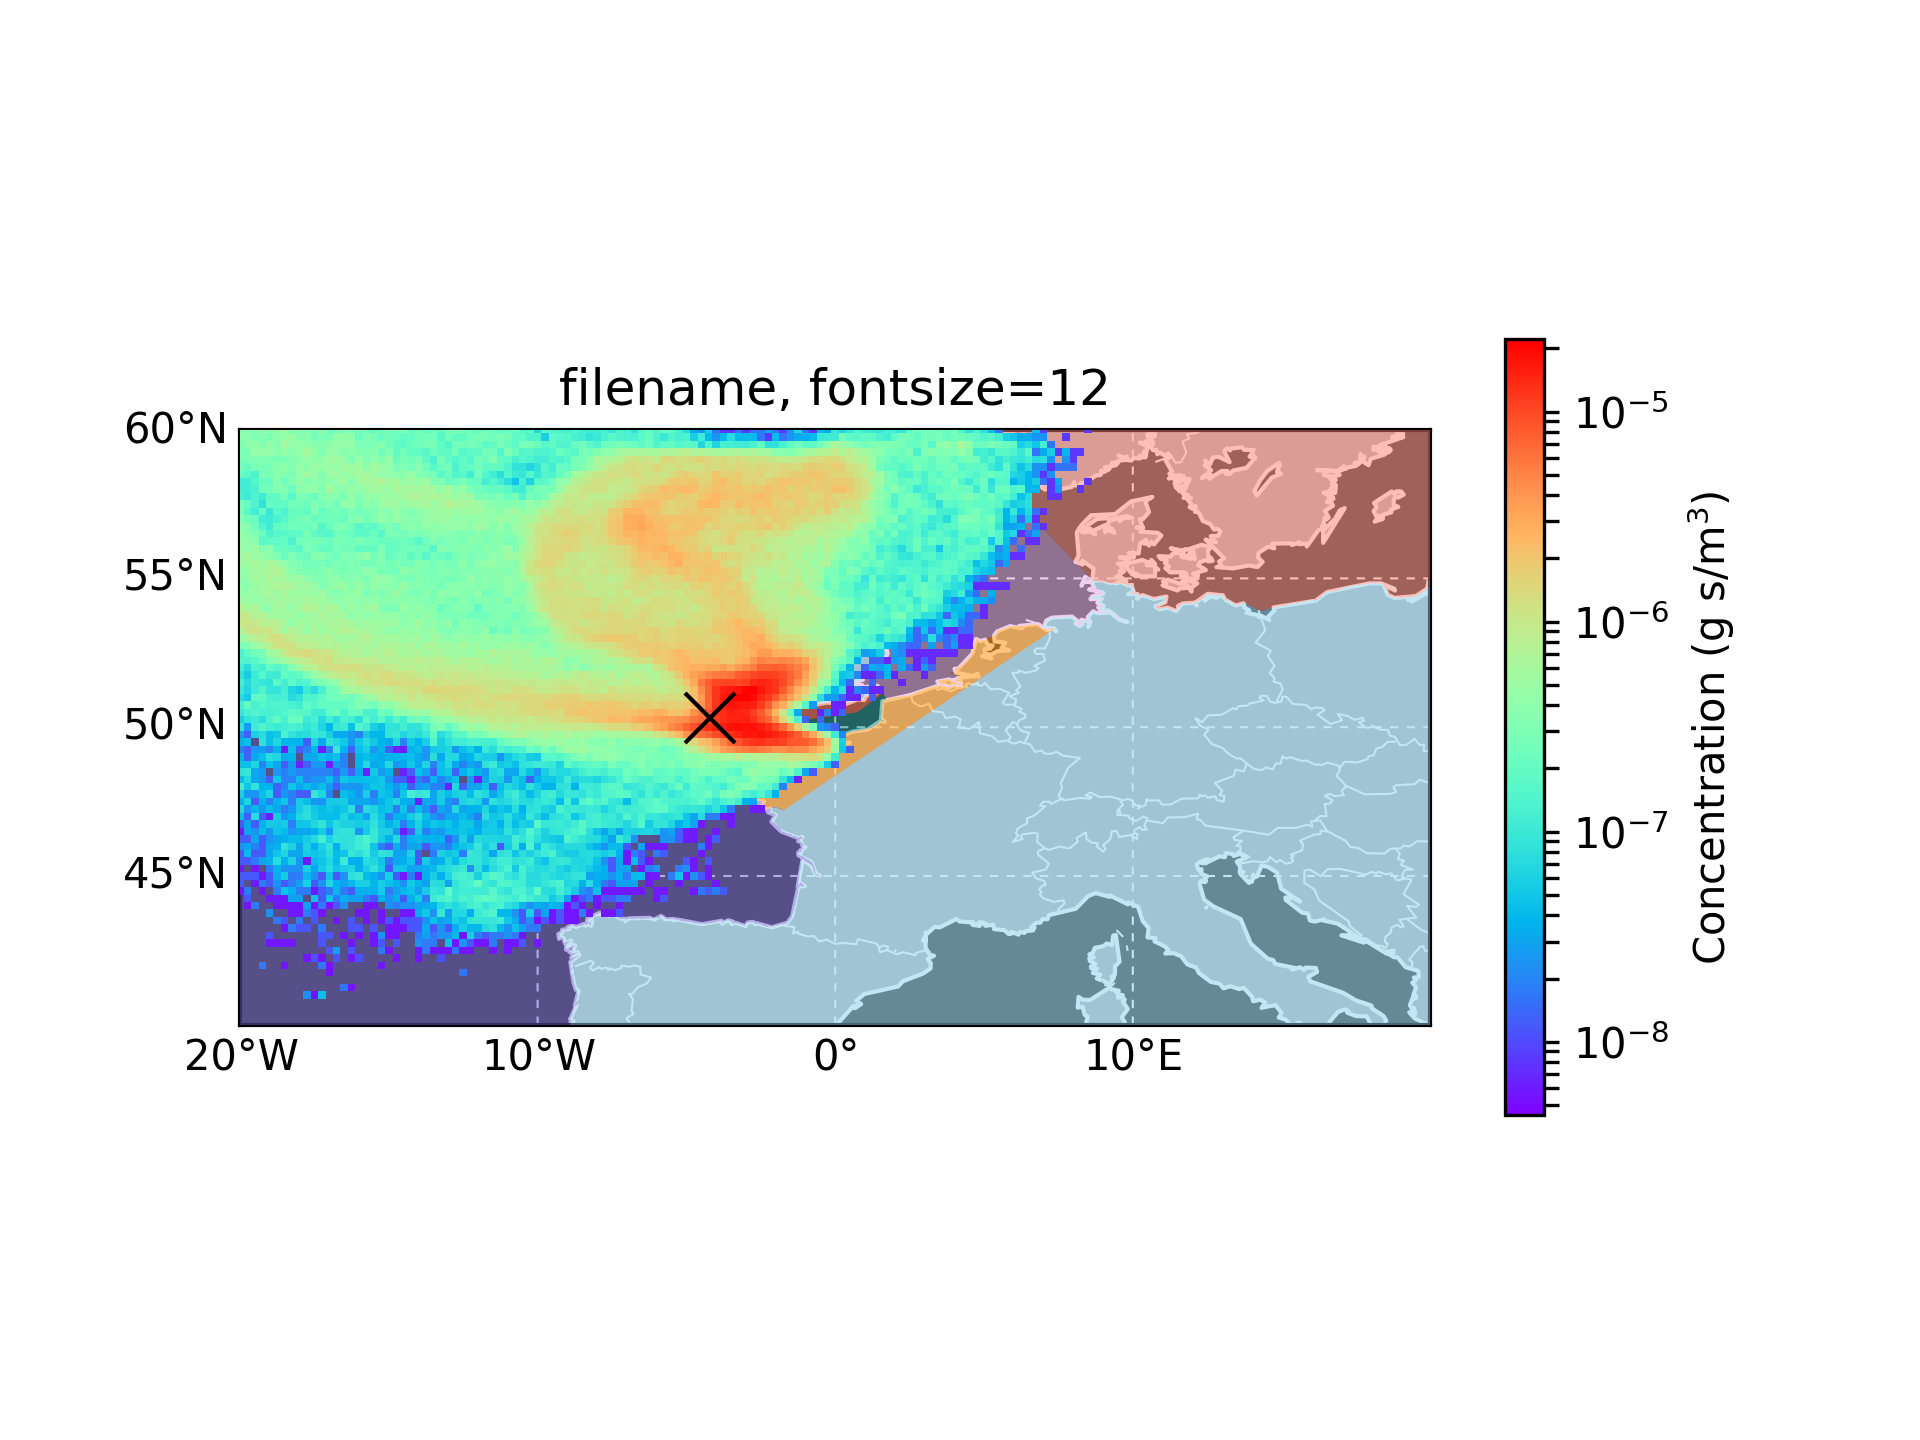
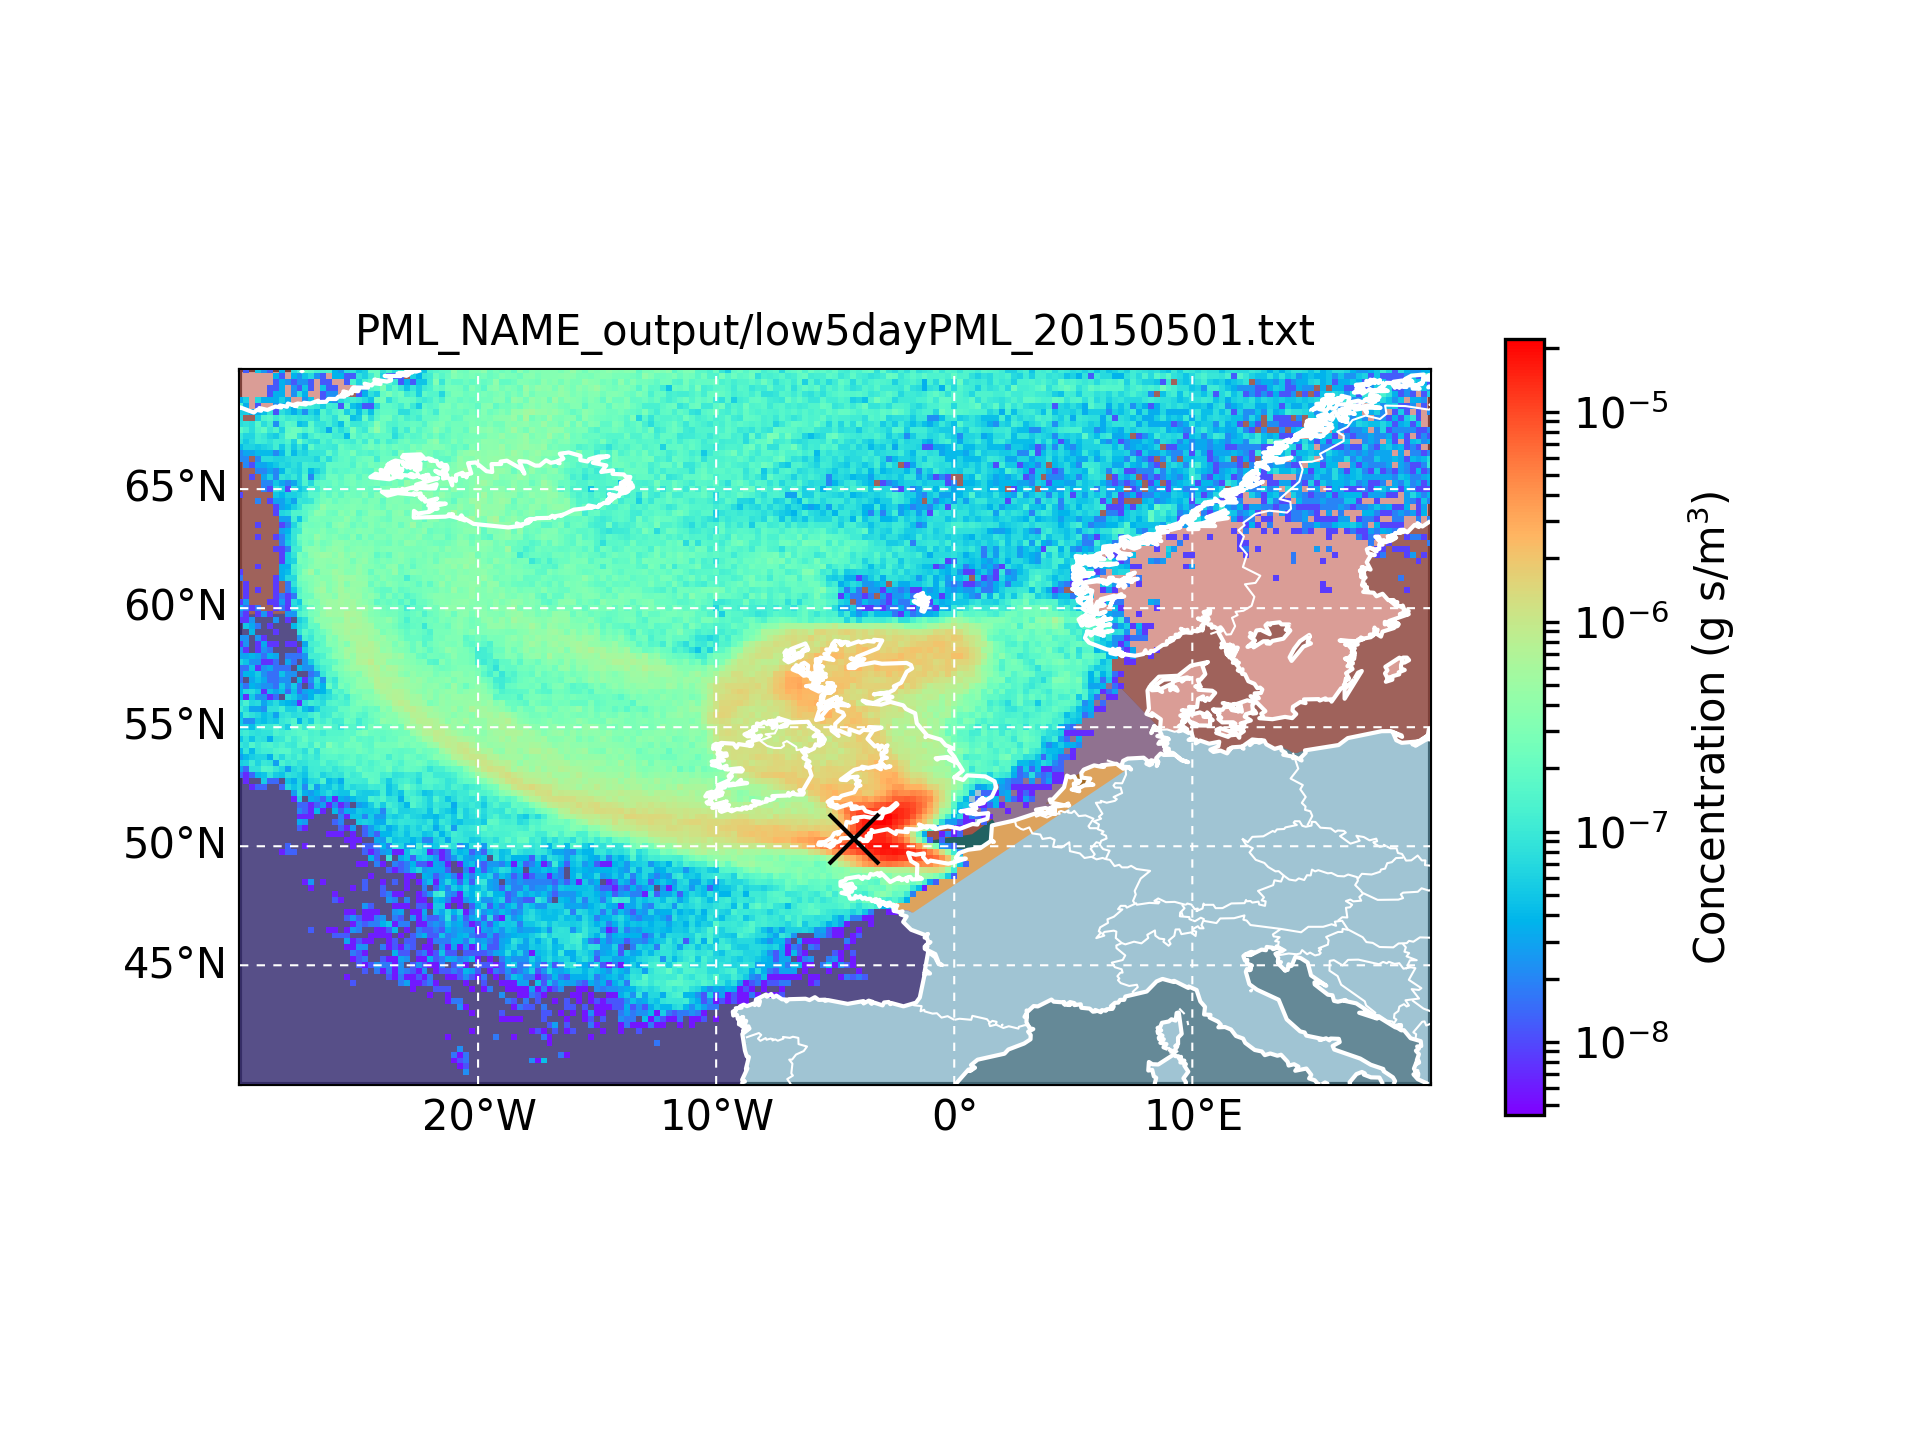
Add zone bounds to PML plot, run PEP8 checks

Changed region(s): [[0.0625, 0.2188, 0.75, 0.7812], [0.0625, 0.6562, 0.125, 0.6875]]

diff --git a/plotPMLgrid.py b/plotPMLgrid.py
@@ -6,10 +6,10 @@
 #  Licensed under the Apache License, Version 2.0 (the "License");
 #  you may not use this file except in compliance with the License.
 #  You may obtain a copy of the License at
-# 
+#
 #    http://www.apache.org/licenses/LICENSE-2.0
-# 
-# Unless required by applicable law or in writing, software 
+#
+# Unless required by applicable law or in writing, software
 # distributed under the License is distributed on an "AS IS" BASIS,
 # WITHOUT WARRANTIES OR CONDITIONS OF ANY KIND, either express or implied.
 # See the License for the specific language governing permissions and
@@ -53,15 +53,12 @@ with open(shapelist, 'r') as f:
 
     for line in f:
         if "," in line:
-            (filename, colorname) = line.split(",",1)
+            (filename, colorname) = line.split(",", 1)
             filename = filename.strip()
             colorname = colorname.strip()
 
             files.append(filename)
             colors.append(colorname)
-
-#print files
-#print colors
 
 # ------------------------------------
 # input NAME filename
@@ -69,11 +66,11 @@ filename = 'PML_NAME_output/low5dayPML_20150501.txt'
 
 # Map bounds
 
-lon_bounds = [-30., 20. ]
-lat_bounds = [ 40., 70. ]
+lon_bounds = [-30., 20.]
+lat_bounds = [40., 70.]
 
-lon_axis = [ -20., -10., 0., 10 ]
-lat_axis = [ 45., 50., 55., 60., 65. ]
+lon_axis = [-20., -10., 0., 10]
+lat_axis = [45., 50., 55., 60., 65.]
 
 lon_pml = -4.1931
 lat_pml = 50.3189
@@ -101,7 +98,7 @@ collist = c[0]
 
 # Set leader column names
 collist[1:4] = ['X-Index', 'Y-Index', 'Longitude', 'Latitude']
-collist = [ x.strip() for x in collist ]
+collist = [x.strip() for x in collist]
 
 # Get observation timestamp strings
 timestamps = collist[5::]
@@ -110,7 +107,7 @@ timestamps = collist[5::]
 df.columns = collist[1::]
 
 # Drop leading rows
-df = df.drop([0,1,2,3])
+df = df.drop([0, 1, 2, 3])
 
 # Convert strings to floats where possible
 df = df.apply(lambda x: pd.to_numeric(x, errors='ignore'))
@@ -119,10 +116,10 @@ df = df.apply(lambda x: pd.to_numeric(x, errors='ignore'))
 crs = {'init': 'epsg:4326'}
 
 # Generate Shapely Point objects for each grid point
-df['points'] = [ Point(xy) for xy in zip(df.Longitude, df.Latitude) ]
+df['points'] = [Point(xy) for xy in zip(df.Longitude, df.Latitude)]
 
 # Generate Shapely Polygons for grid squares
-df['grid'] = [ Polygon(gridsquare(xy + grid_size)) for xy in zip(df.Longitude, df.Latitude) ]
+df['grid'] = [Polygon(gridsquare(xy + grid_size)) for xy in zip(df.Longitude, df.Latitude)]
 
 # Create GeoDataFrame with point and grid geometry columns
 geo_df = gpd.GeoDataFrame(df, crs=crs, geometry=df['points'])
@@ -131,8 +128,8 @@ print 'done'
 
 # Get minimum non-zero concentration value
 cl = geo_df[timestamps].values.tolist()
-flat = [ item for sublist in cl for item in sublist ]
-min_conc = min([ x for x in flat if x > 0.0 ])
+flat = [item for sublist in cl for item in sublist]
+min_conc = min([x for x in flat if x > 0.0])
 
 # Get maximum concentration value
 max_conc = geo_df[timestamps].values.max()
@@ -157,19 +154,18 @@ ax.set_aspect('equal')
 norm = matplotlib.colors.LogNorm(vmin=min_conc, vmax=max_conc, clip=False)
 
 m = Basemap(llcrnrlon=lon_bounds[0], llcrnrlat=lat_bounds[0],
-                                    urcrnrlon=lon_bounds[1], urcrnrlat=lat_bounds[1],
-                                    projection='cyl', lat_1=45., lat_2=55., lon_0=0.,
-                                    resolution='l', area_thresh=1000.)
+            urcrnrlon=lon_bounds[1], urcrnrlat=lat_bounds[1],
+            projection='cyl', lat_1=45., lat_2=55., lon_0=0.,
+            resolution='l', area_thresh=1000.)
 
 m.drawcoastlines(color='white', zorder=8)
 m.drawcountries(color='white', zorder=8)
 m.drawmapboundary(fill_color='#444444')
-m.fillcontinents(color='#bbbbbb',lake_color='#444444')
-m.drawparallels(lat_axis, linewidth=0.5, color='white', labels=[1,0,0,1], zorder=8)
-m.drawmeridians(lon_axis, linewidth=0.5, color='white', labels=[1,0,0,1], zorder=8)
+m.fillcontinents(color='#bbbbbb', lake_color='#444444')
+m.drawparallels(lat_axis, linewidth=0.5, color='white', labels=[1, 0, 0, 1], zorder=8)
+m.drawmeridians(lon_axis, linewidth=0.5, color='white', labels=[1, 0, 0, 1], zorder=8)
 
 ax.set_title(filename, fontsize=10)
-
 
 # Loop over input shapefiles
 
@@ -179,28 +175,38 @@ for shapefile in files:
 
     # read ESRI shapefile into GeoPandas object
     shape = gpd.GeoDataFrame.from_file(shapefile)
-    
+
     for poly in shape.geometry:
         if poly.geom_type == 'Polygon':
-#            print 'polygon found', poly
+            # print 'polygon found', poly
             mpoly = transform(m, poly)
             patches.append(PolygonPatch(mpoly))
         elif poly.geom_type == 'MultiPolygon':
             for subpoly in poly:
-#                print 'subpolygon found', subpoly
+                # print 'subpolygon found', subpoly
                 mpoly = transform(m, subpoly)
                 patches.append(PolygonPatch(mpoly))
     else:
         pass
-#        print 'Neither a polygon for a multi-polygon'
+        # print 'Neither a polygon for a multi-polygon'
 
-pc  = PatchCollection(patches, match_original=True)
+pc = PatchCollection(patches, match_original=True)
 pc.set_facecolor(colors)
-pc.set_edgecolor('none')
+pc.set_edgecolor('red')
 pc.set_alpha(0.5)
+pc.set_linewidth(0.5)
 pc.set_zorder(4)
 
 sq = ax.add_collection(pc)
+
+pc2 = PatchCollection(patches, match_original=True)
+pc2.set_facecolor('none')
+pc2.set_edgecolor('red')
+pc2.set_alpha(0.5)
+pc2.set_linewidth(0.5)
+pc2.set_zorder(10)
+
+sq2 = ax.add_collection(pc2)
 
 # ------------------------------------
 
@@ -225,11 +231,11 @@ fig.colorbar(gpc, label=r'Concentration (g s/m$^3$)', shrink=0.7)
 
 # plot PML site marker
 x_pml, y_pml = m(lon_pml, lat_pml)
-m.plot(x_pml, y_pml, 'kx', markersize=12, zorder=10)
+m.plot(x_pml, y_pml, 'kx', markersize=8, zorder=10)
 
 # ------------------------------------
 
-pngfile = 'plot_europe_grid.png'
+pngfile = 'plot_europe_grid2.png'
 fig.savefig(pngfile, dpi=300)
 
 print 'done.'
